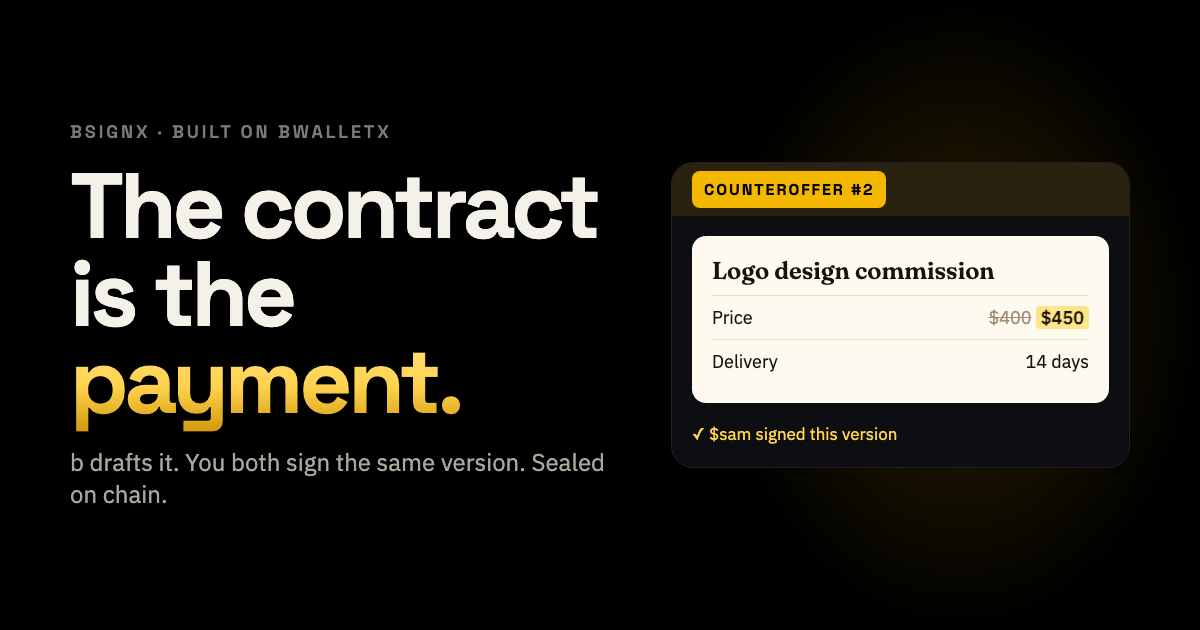
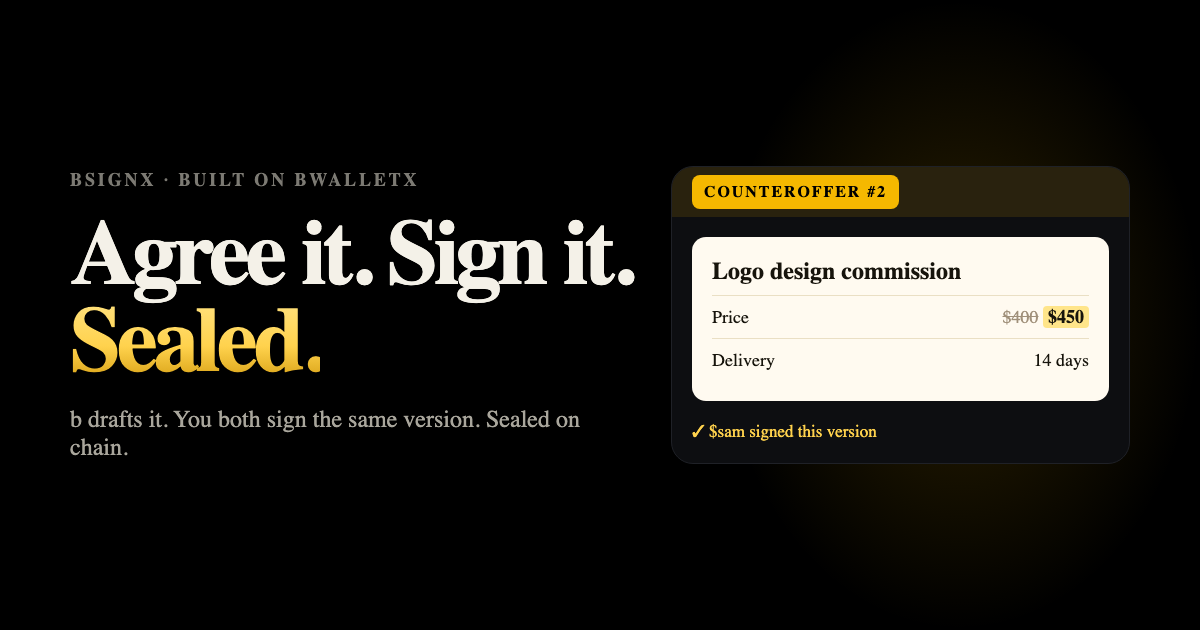
Hero: 'Agree it. Sign it. Sealed.' (owner: 'the contract is the payment' confuses people); lede no longer claims one-tx settlement as live

diff --git a/media-src/og-bsignx-v1.html b/media-src/og-bsignx-v1.html
@@ -8,6 +8,6 @@ p{font-size:24px;color:#a9a69c;margin:0}
 .p{margin:20px;background:#fffaf0;color:#17140c;border-radius:14px;padding:20px}.p h3{font:600 24px 'Fraunces';margin:0 0 10px}.t{display:flex;justify-content:space-between;border-top:1px solid #eadfc4;padding:10px 0;font-size:18px}
 ins{text-decoration:none;background:#ffe58a;padding:0 5px;border-radius:4px;font-weight:600}del{color:#a0907a}
 .s{padding:0 20px 22px;color:#ffd24d;font-size:17px}</style></head><body>
-<div><div class="k">bSignX · built on bWalletX</div><h1>The contract<br>is the <span>payment.</span></h1><p>b drafts it. You both sign the same version. Sealed on chain.</p></div>
+<div><div class="k">bSignX · built on bWalletX</div><h1>Agree it. Sign it.<br><span>Sealed.</span></h1><p>b drafts it. You both sign the same version. Sealed on chain.</p></div>
 <div class="c"><div class="b"><b>COUNTEROFFER #2</b></div><div class="p"><h3>Logo design commission</h3><div class="t"><span>Price</span><span><del>$400</del> <ins>$450</ins></span></div><div class="t"><span>Delivery</span><span>14 days</span></div></div><div class="s">&#10003; $sam signed this version</div></div>
 </body></html>

diff --git a/index.html b/index.html
@@ -188,8 +188,8 @@ html,body{overflow-x:clip}
 <div class="wrap hero">
   <div>
     <p class="eyebrow">bSignX · built on bWalletX</p>
-    <h1>The contract<br>is the<br><span>payment.</span></h1>
-    <p class="lede">Tell b what you want agreed. b drafts it. You both sign the same version, and the deal settles in one on-chain transaction. The text stays private to you two. Anyone can check that it was agreed.</p>
+    <h1>Agree it.<br>Sign it.<br><span>Sealed.</span></h1>
+    <p class="lede">Tell b what you want agreed. b drafts it as a proper written contract. You both sign the same version, and it is sealed on chain. Only you two can read it. Anyone can check that it was agreed.</p>
     <div class="ctas">
       <a class="btn btn-gold" href="https://www.bchatx.com">Start in bChatX</a>
       <a class="btn btn-ghost" href="#how">How it works</a>
